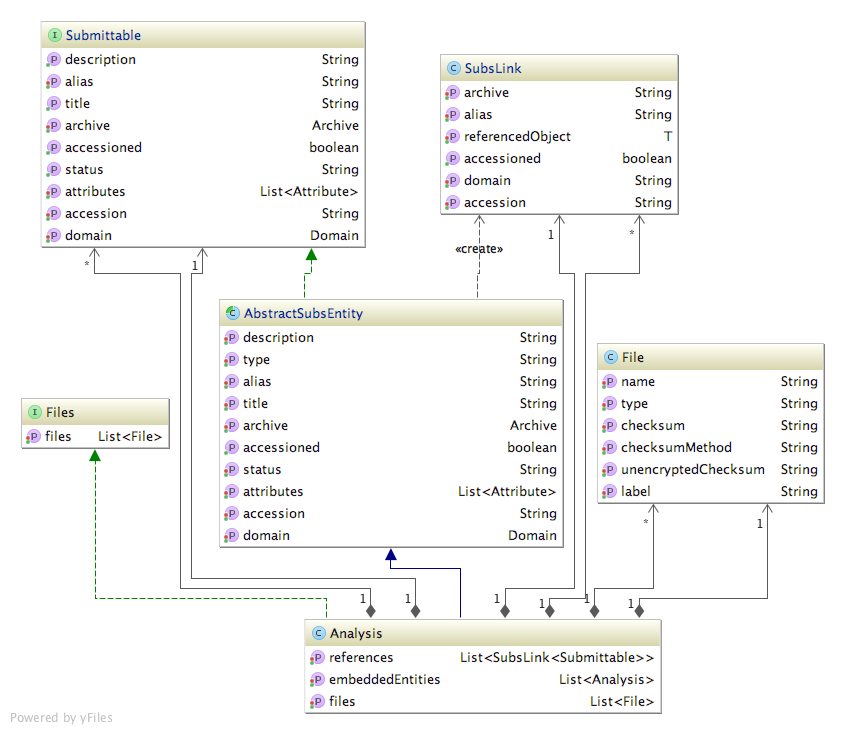
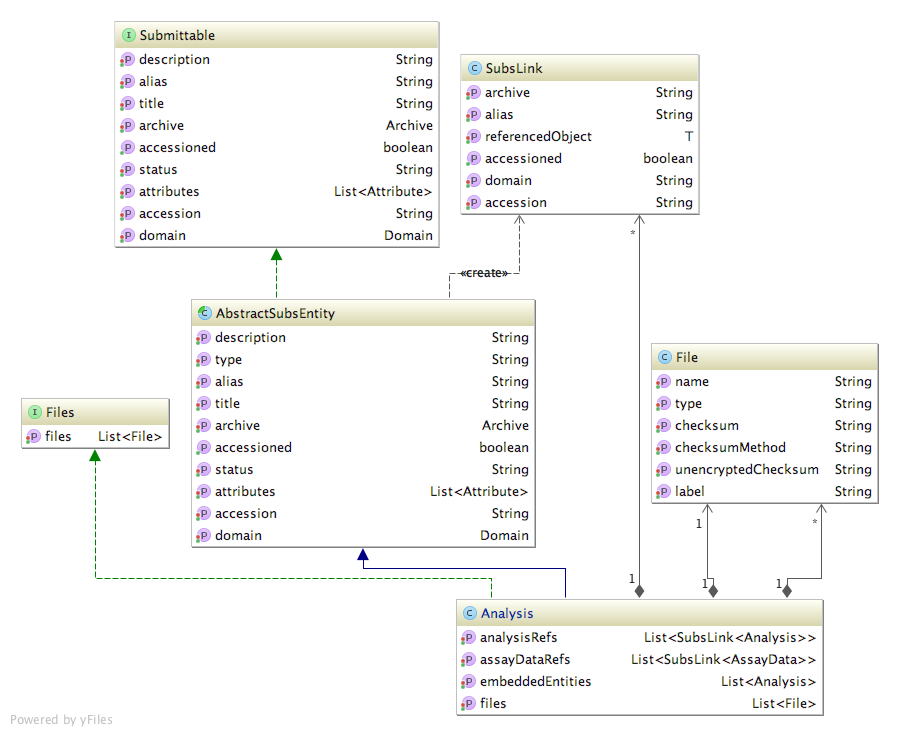
Analysis must link to analysis or assay data

diff --git a/subs-data-model/src/main/java/uk/ac/ebi/subs/data/submittable/Analysis.java b/subs-data-model/src/main/java/uk/ac/ebi/subs/data/submittable/Analysis.java
@@ -8,9 +8,27 @@ import java.util.List;
 
 public class Analysis extends AbstractSubsEntity<Analysis> implements Files {
 
+    List<SubsLink<Analysis>> analysisRefs = new ArrayList<>();
+    List<SubsLink<AssayData>> assayDataRefs = new ArrayList<>();
+
     List<Analysis> embeddedEntities  =  new ArrayList<>();
-    List<SubsLink<Submittable>> references = new ArrayList<SubsLink<Submittable>>();
     List<File> files = new ArrayList<File>();
+
+    public List<SubsLink<Analysis>> getAnalysisRefs() {
+        return analysisRefs;
+    }
+
+    public void setAnalysisRefs(List<SubsLink<Analysis>> analysisRefs) {
+        this.analysisRefs = analysisRefs;
+    }
+
+    public List<SubsLink<AssayData>> getAssayDataRefs() {
+        return assayDataRefs;
+    }
+
+    public void setAssayDataRefs(List<SubsLink<AssayData>> assayDataRefs) {
+        this.assayDataRefs = assayDataRefs;
+    }
 
     public List<Analysis> getEmbeddedEntities() {
         return embeddedEntities;
@@ -18,14 +36,6 @@ public class Analysis extends AbstractSubsEntity<Analysis> implements Files {
 
     public void setEmbeddedEntities(List<Analysis> embeddedEntities) {
         this.embeddedEntities = embeddedEntities;
-    }
-
-    public List<SubsLink<Submittable>> getReferences() {
-        return references;
-    }
-
-    public void setReferences(List<SubsLink<Submittable>> references) {
-        this.references = references;
     }
 
     @Override
